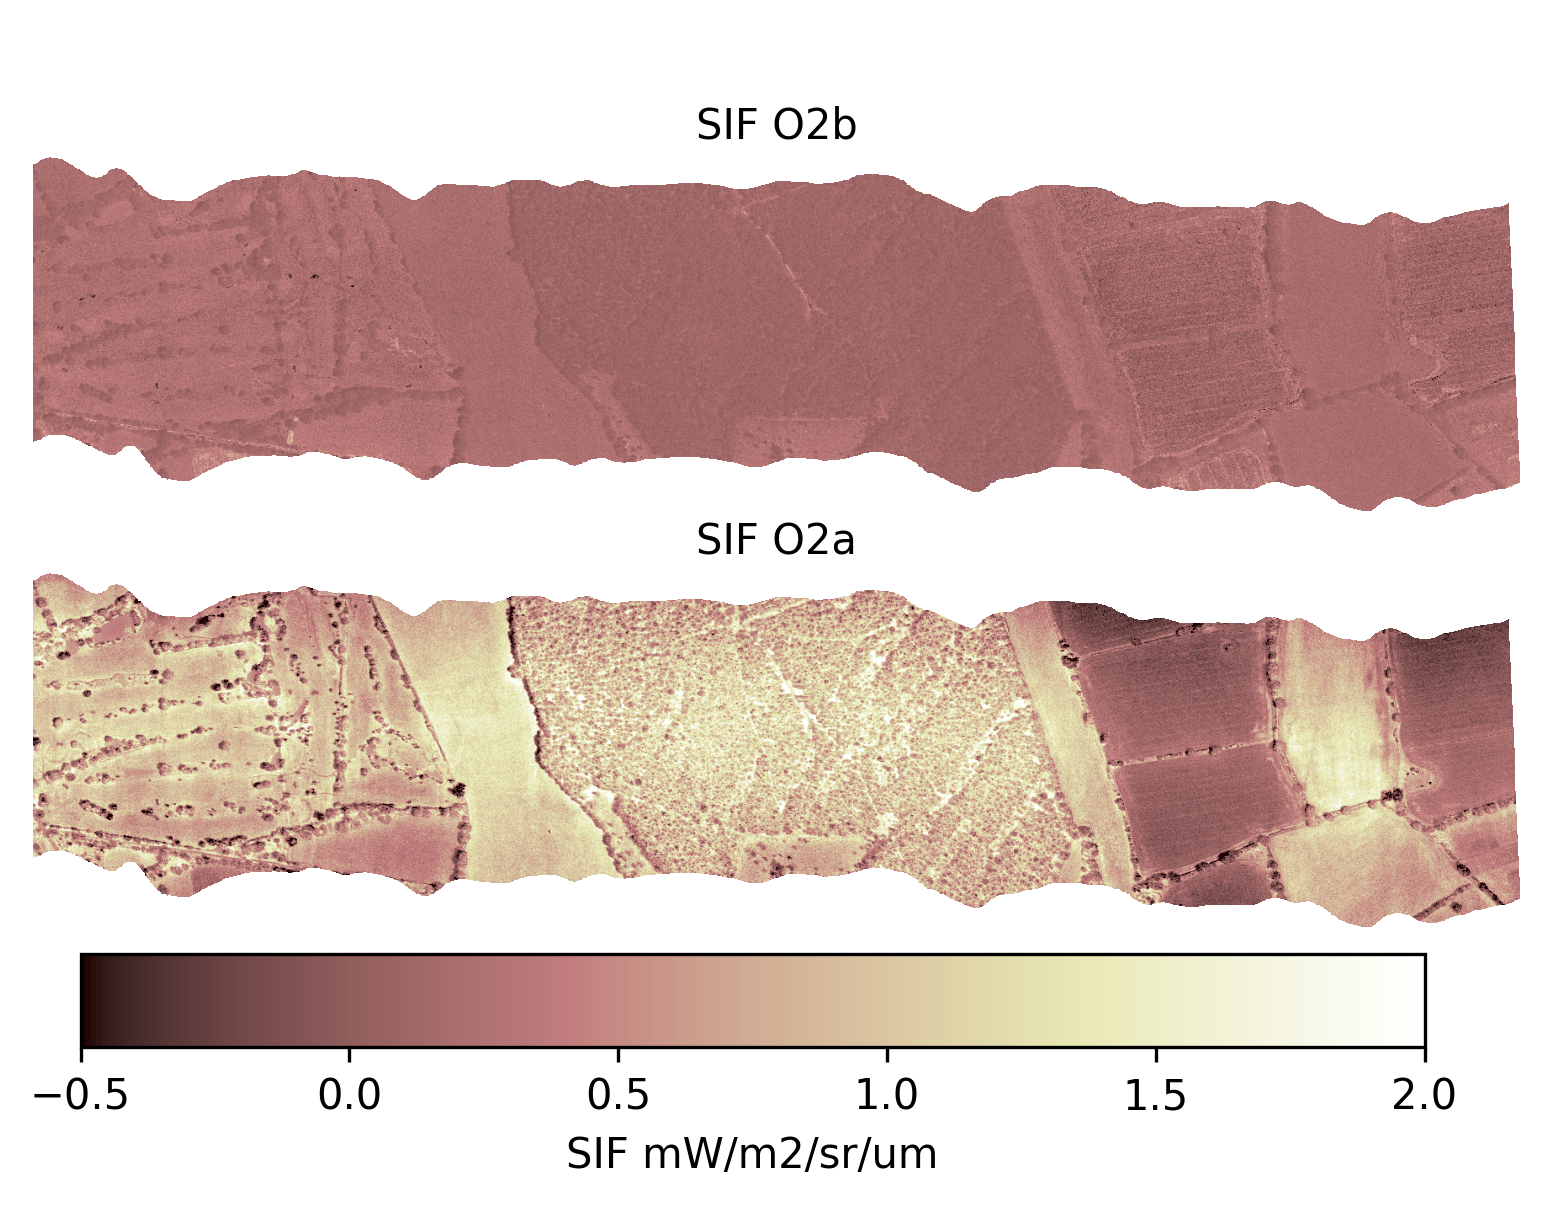
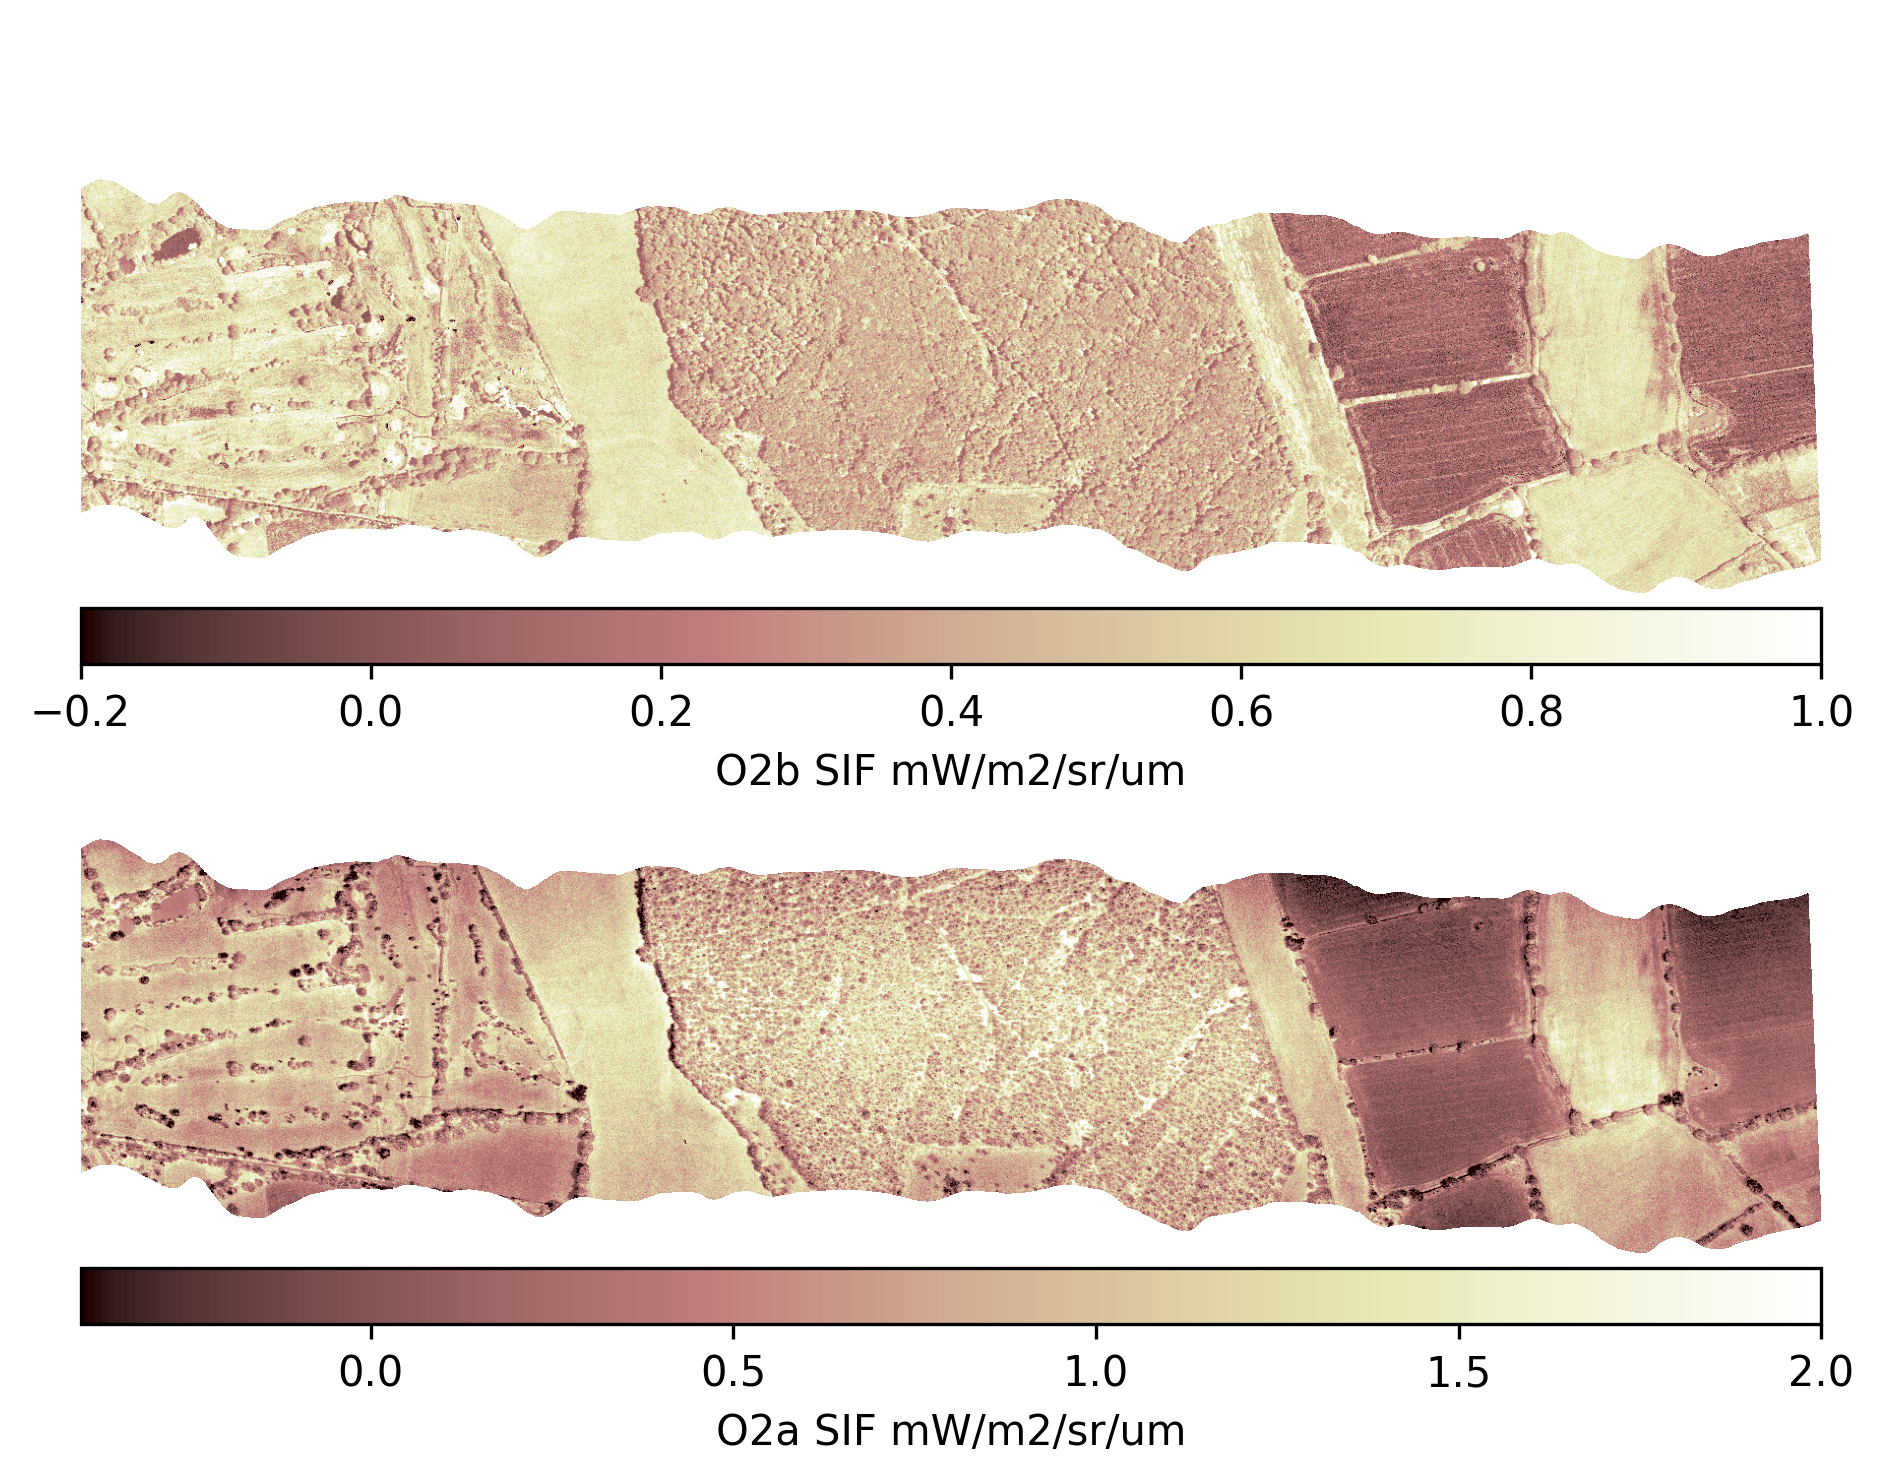
small update to plotting

diff --git a/img/mk_image.py b/img/mk_image.py
@@ -1,6 +1,7 @@
+import pickle
 import numpy as np
 from matplotlib import pyplot as plt
-import pickle
+from mpl_toolkits.axes_grid1 import make_axes_locatable
 
 with open('../data_out/sif_o2a_ridgeReg2.pickle', 'rb') as f:
     image = pickle.load(f)
@@ -12,24 +13,47 @@ with open('../data_out/sif_o2b_ridgeReg2.pickle', 'rb') as f:
 sif_o2b_data = np.ma.masked_where(image < -10, image)
 sif_o2b_data = sif_o2b_data[2000:,:]
 
-vmin=-0.5
-vmax=2.0
 cmap="pink"
+#cmap="hot"
 
 fig, axes = plt.subplots(nrows=2, ncols=1)
-axes[0].imshow(np.rot90(sif_o2b_data), vmin=vmin, vmax=vmax, cmap=cmap)
+
+#O2B ========================
+vmin=-0.2
+vmax=1.0
+im0=axes[0].imshow(np.rot90(sif_o2b_data), vmin=vmin, vmax=vmax, cmap=cmap)
+box = axes[0].get_position()
+#print(box)
+#box.y0 = box.y0 - 0.2
+#box.y1 = box.y1 - 0.2
+#axes[0].set_position(box)
 axes[0].axis("off")
-im=axes[1].imshow(np.rot90(sif_o2a_data), vmin=vmin, vmax=vmax, cmap=cmap)
+
+divider = make_axes_locatable(axes[0])
+cax = divider.append_axes('bottom', size='10%', pad=0.05)
+fig.colorbar(im0, cax=cax, orientation="horizontal", label="O2b SIF mW/m2/sr/um",pad=0.01, cmap=cmap)
+
+
+#O2A ========================
+vmin=-0.4
+vmax=2.0
+im1=axes[1].imshow(np.rot90(sif_o2a_data), vmin=vmin, vmax=vmax, cmap=cmap)
 axes[1].axis("off")
 fig.subplots_adjust(wspace=0, hspace=-0.4)
+divider = make_axes_locatable(axes[1])
+cax = divider.append_axes('bottom', size='10%', pad=0.05)
+fig.colorbar(im1, cax=cax, orientation="horizontal", label="O2a SIF mW/m2/sr/um",pad=0.01, cmap=cmap)
 
-axes[0].text(0.5, 0.8, 'SIF O2b', horizontalalignment='center', verticalalignment='center', transform=axes[0].transAxes)
-axes[1].text(0.5, 0.8, 'SIF O2a', horizontalalignment='center', verticalalignment='center', transform=axes[1].transAxes)
 
-cbar_ax = fig.add_axes([0.15, 0.1, 0.7, 0.065])
-fig.colorbar(im, orientation="horizontal", label="SIF mW/m2/sr/um",pad=0.01, cmap=cmap, cax=cbar_ax)
+#axes[0].text(0.5, 0.8, 'SIF O2b', horizontalalignment='center', verticalalignment='center', transform=axes[0].transAxes)
+#axes[1].text(0.5, 0.8, 'SIF O2a', horizontalalignment='center', verticalalignment='center', transform=axes[1].transAxes)
+
+#cbar_ax = fig.add_axes([0.15, 0.1, 0.7, 0.065])
+#fig.colorbar(im, orientation="horizontal", label="SIF mW/m2/sr/um",pad=0.01, cmap=cmap, cax=cbar_ax)
 
 #plt.show()
+fig.tight_layout()
+
 plt.savefig("ibis_sif_ridgeReg2_o2a_o2b.png",bbox_inches='tight', dpi=300)
 
 

diff --git a/sif_retrieval.py b/sif_retrieval.py
@@ -33,6 +33,11 @@ def diff_matrix(size,order=1):
 
 
 def sif_ridgeReg_compute_pseudo_inverse(wref_spect, order=1, gamma=1., sif_opts=sif_opts_FLD_Cendrero19_O2a):
+    """Wrapper function to preserve previous functionality
+    """
+    return sif_ridgeReg_compute_pseudo_inverse_RFopts(wref_spect, orderR=order, gammaR=gamma, orderF=order, gammaF=gamma,sif_opts=sif_opts)
+
+def sif_ridgeReg_compute_pseudo_inverse_RFopts(wref_spect, orderR=1, gammaR=1., orderF=1, gammaF=1.,sif_opts=sif_opts_FLD_Cendrero19_O2a):
     """
     
     (KTK+gBTB)KT
@@ -55,8 +60,9 @@ def sif_ridgeReg_compute_pseudo_inverse(wref_spect, order=1, gamma=1., sif_opts=
     
     #make the block matrix for the
     #ridge regression constraints
-    D=diff_matrix(size,order=order)
-    B=linalg.block_diag(gamma*D,gamma*D)
+    DR=diff_matrix(size,order=orderR)
+    DF=diff_matrix(size,order=orderF)
+    B=linalg.block_diag(gammaF*DF,gammaR*DR)
     BTB=np.matmul(B.T,B)
     
     return(np.matmul(np.linalg.inv(KTK+BTB),K.T))
@@ -248,9 +254,9 @@ if __name__=="__main__":
     pseudo=sif_ridgeReg_compute_pseudo_inverse(wref, sif_opts=sif_opts, order=3, gamma=10000000.)
     print(sif_ridgeReg_use_precomp_inverse(test, pseudo,sif_opts=sif_opts,out_wvl=761.)*0.01)
 
-    #plt.plot(wref.wavl,wref.data)
-    #plt.plot(test.wavl,test.data)
-    #plt.show()
+    plt.plot(wref.wavl,wref.data)
+    plt.plot(test.wavl,test.data)
+    plt.show()
     
     
     

diff --git a/img/mk_image_old.py b/img/mk_image_old.py
@@ -1,0 +1,35 @@
+import numpy as np
+from matplotlib import pyplot as plt
+import pickle
+
+with open('../data_out/sif_o2a_ridgeReg2.pickle', 'rb') as f:
+    image = pickle.load(f)
+sif_o2a_data = np.ma.masked_where(image < -10, image)
+sif_o2a_data = sif_o2a_data[2000:,:]
+
+with open('../data_out/sif_o2b_ridgeReg2.pickle', 'rb') as f:
+    image = pickle.load(f)
+sif_o2b_data = np.ma.masked_where(image < -10, image)
+sif_o2b_data = sif_o2b_data[2000:,:]
+
+vmin=-0.5
+vmax=1.5
+cmap="pink"
+
+fig, axes = plt.subplots(nrows=2, ncols=1)
+axes[0].imshow(np.rot90(sif_o2b_data), vmin=vmin, vmax=vmax, cmap=cmap)
+axes[0].axis("off")
+im=axes[1].imshow(np.rot90(sif_o2a_data), vmin=vmin, vmax=vmax, cmap=cmap)
+axes[1].axis("off")
+fig.subplots_adjust(wspace=0, hspace=-0.4)
+
+axes[0].text(0.5, 0.8, 'SIF O2b', horizontalalignment='center', verticalalignment='center', transform=axes[0].transAxes)
+axes[1].text(0.5, 0.8, 'SIF O2a', horizontalalignment='center', verticalalignment='center', transform=axes[1].transAxes)
+
+cbar_ax = fig.add_axes([0.15, 0.1, 0.7, 0.065])
+fig.colorbar(im, orientation="horizontal", label="SIF mW/m2/sr/um",pad=0.01, cmap=cmap, cax=cbar_ax)
+
+#plt.show()
+plt.savefig("ibis_sif_ridgeReg2_o2a_o2b.png",bbox_inches='tight', dpi=300)
+
+

diff --git a/proc_ibis.py b/proc_ibis.py
@@ -57,13 +57,13 @@ if __name__=="__main__":
     #restrict the O2b waveband - the longer
     #wavelengths change too much (this may
     #also be overcome with the ridge regression)
-    sif_opts_FLD_Cendrero19_O2b.in_wband=(682, 690) 
+    #sif_opts_FLD_Cendrero19_O2b.in_wband=(682, 690) 
 
     #precompute pseudo inverse for regression
     #pseudo_o2a=sif_linReg_compute_pseudo_inverse(wref, sif_opts_FLD_Cendrero19_O2a)
     #pseudo_o2b=sif_linReg_compute_pseudo_inverse(wref, sif_opts_FLD_Cendrero19_O2b)
     #pseudo_o2a=sif_ridgeReg_compute_pseudo_inverse(wref, order=2, gamma=10000000., sif_opts=sif_opts_FLD_Cendrero19_O2a)
-    pseudo_o2b=sif_ridgeReg_compute_pseudo_inverse(wref, order=2, gamma=10000000., sif_opts=sif_opts_FLD_Cendrero19_O2b)
+    pseudo_o2b=sif_ridgeReg_compute_pseudo_inverse_RFopts(wref, orderR=3, gammaR=10000000.,orderF=2, gammaF=10000000., sif_opts=sif_opts_FLD_Cendrero19_O2b)
 
     #loop over the IBIS data, exploiting the
     #fact that the BilReader class creates an

diff --git a/README.md b/README.md
@@ -4,4 +4,4 @@ Tools for calculating SIF from IBIS data in ENVI BIL format that provided by NEO
 
 Note: This code is a work in progress and is not yet at a level of maturity to produce high quality SIF products. Watch this space!
 
-![Example SIF retrieval](img/ibis_sif_sFLD_o2a_o2b.png)
+![Example SIF retrieval](img/ibis_sif_ridgeReg_o2a_o2b.png)
